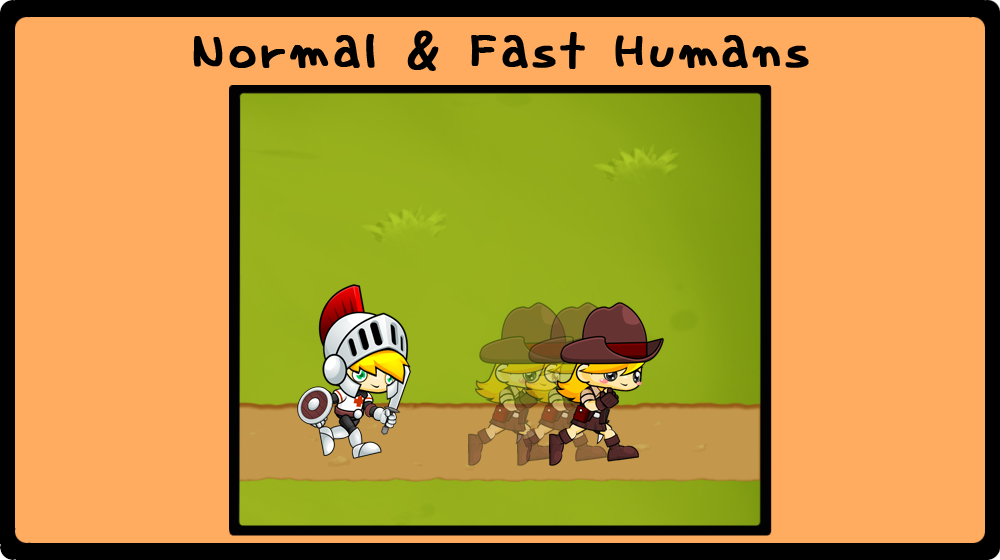
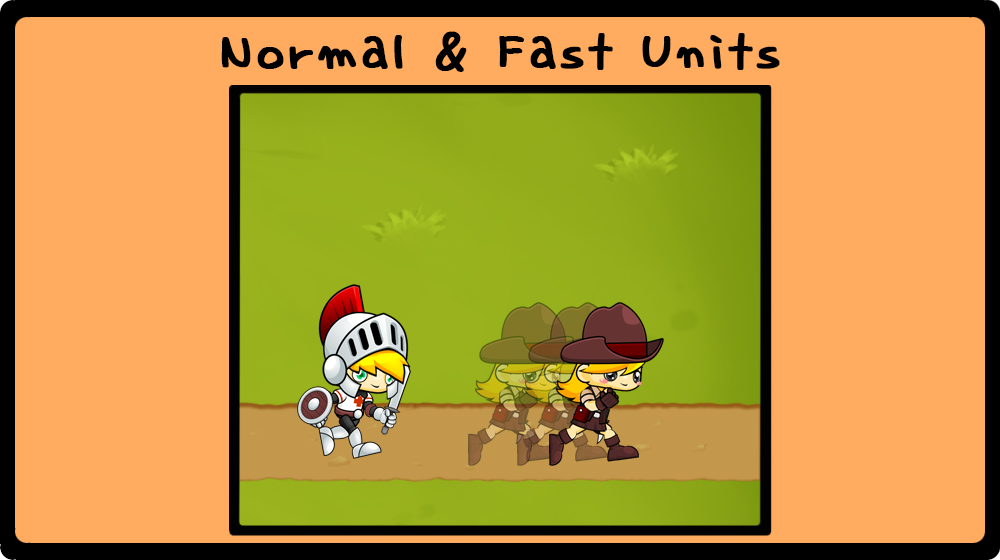
Boss sprites size problem solved / Tutorial image changed

Changed region(s): [[0.186, 0.0607, 0.806, 0.1518]]

diff --git a/src/zombie_images.js b/src/zombie_images.js
@@ -87,8 +87,8 @@ var allZombieImageSources = {
         idle: {
             image_src: "img/troll1_idle.png",
             max_num_sprites: 7,
-            num_sprites_horz: 1,
-            num_sprites_vert: 7,
+            num_sprites_horz: 4,
+            num_sprites_vert: 2,
             sprite_width: 0,
             sprite_height: 0,
             repeat: true,
@@ -97,8 +97,8 @@ var allZombieImageSources = {
         walk: {
             image_src: "img/troll1_walk.png",
             max_num_sprites: 7,
-            num_sprites_horz: 1,
-            num_sprites_vert: 7,
+            num_sprites_horz: 4,
+            num_sprites_vert: 2,
             sprite_width: 0,
             sprite_height: 0,
             repeat: true,
@@ -108,8 +108,8 @@ var allZombieImageSources = {
         dying: {
             image_src: "img/troll1_dying.png",
             max_num_sprites: 7,
-            num_sprites_horz: 3,
-            num_sprites_vert: 3,
+            num_sprites_horz: 4,
+            num_sprites_vert: 2,
             sprite_width: 0,
             sprite_height: 0,
             repeat: false,
@@ -125,7 +125,7 @@ var allZombieImageSources = {
             sprite_height: 0,
             repeat: false,
             image: null,
-            scale : 1.2
+            //scale : 1.2
         }
     },
     ranged : {

diff --git a/src/human_images.js b/src/human_images.js
@@ -129,8 +129,8 @@ var allHumanImageSources = {
         idle: {
             image_src: "img/heavy_knight_idle.png",
             max_num_sprites: 7,
-            num_sprites_horz: 3,
-            num_sprites_vert: 3,
+            num_sprites_horz: 4,
+            num_sprites_vert: 2,
             sprite_width: 0,
             sprite_height: 0,
             repeat: true,
@@ -139,8 +139,8 @@ var allHumanImageSources = {
         walk: {
             image_src: "img/heavy_knight_walk.png",
             max_num_sprites: 7,
-            num_sprites_horz: 3,
-            num_sprites_vert: 3,
+            num_sprites_horz: 4,
+            num_sprites_vert: 2,
             sprite_width: 0,
             sprite_height: 0,
             repeat: true,
@@ -161,8 +161,8 @@ var allHumanImageSources = {
         attack: {
             image_src: "img/heavy_knight_attack.png",
             max_num_sprites: 7,
-            num_sprites_horz: 3,
-            num_sprites_vert: 3,
+            num_sprites_horz: 4,
+            num_sprites_vert: 2,
             sprite_width: 0,
             sprite_height: 0,
             repeat: false,

diff --git a/src/unit.js b/src/unit.js
@@ -75,8 +75,8 @@ var ZombieInfo = {
 var ZombieBossInfo = {
     heavy : {
         name : "heavy",
-        width : 200,
-        height : 200,
+        width : 300,
+        height : 300,
         hp : 300,
         moveSpeed : 30,
         attackRange : 180,
@@ -167,8 +167,8 @@ var HumanTroopInfo = {
 var HumanBossInfo = {
     heavy : {
         name : "heavy",
-        width : 200,
-        height : 200,
+        width : 300,
+        height : 300,
         hp : 300,
         moveSpeed : 30,
         attackRange : 180,

diff --git a/src/UI_indicator.js b/src/UI_indicator.js
@@ -27,7 +27,7 @@ var IndicatorObject = function(container, indicatorType, txt_value)
 	this.to_be_removed = false;
 	
 	if(this.uiInfo.interval > 0)
-		Time.Wait(function(){self.to_be_removed = true;}, self.uiInfo.interval);
+		setTimeout(function(){self.to_be_removed = true;}, self.uiInfo.interval);
 	this.setPositionAgain = function()
 	{
 		self.x = self.uiInfo.x;
